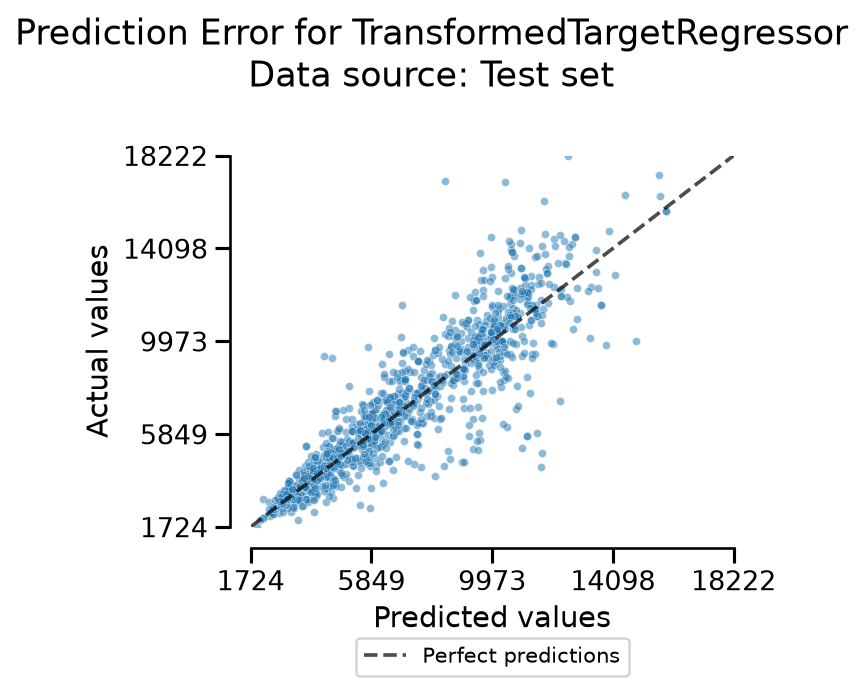
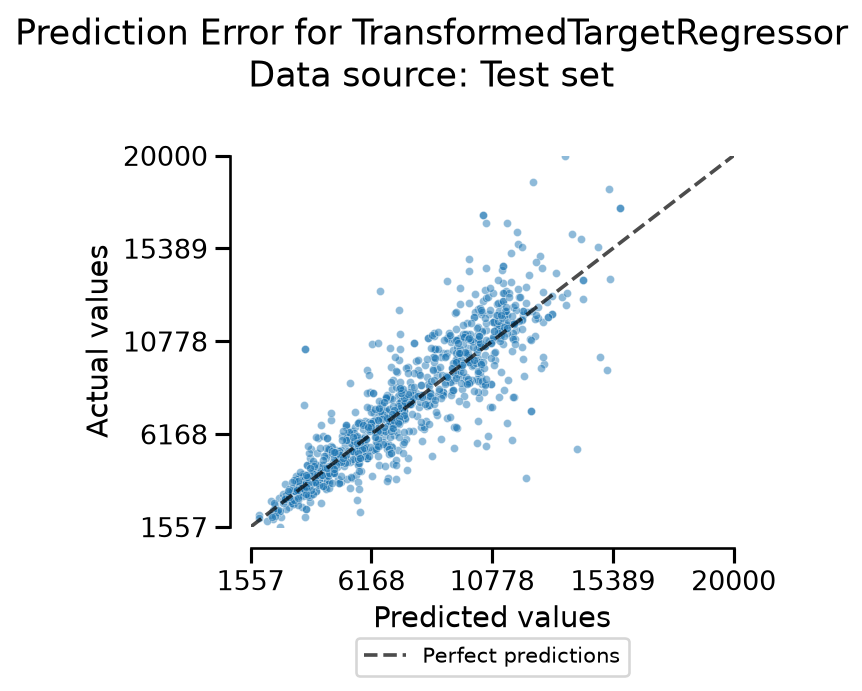
test : Vérification code commune

diff --git a/dvf.py b/dvf.py
@@ -323,6 +323,13 @@ dvf["log_distance_eiffel"] = np.log1p(distance_eiffel_km)
 # are dropped.
 dvf_start_data = dvf.dropna(subset=["prix_m2"])
 
+# Checks of the dataset
+
+def check_code_commune_formatting():
+    """
+    Checks the city code in the entire dataset
+    """
+    assert (dvf['code_commune'].apply(len) == 5).all()
 
 # PRICE PER M² BY MUNICIPALITY ---------------------------------------
 
